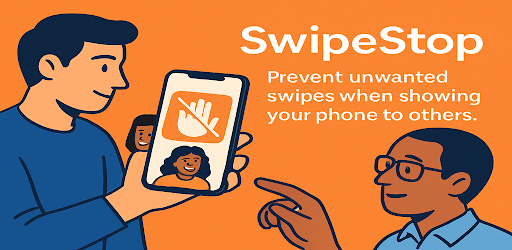
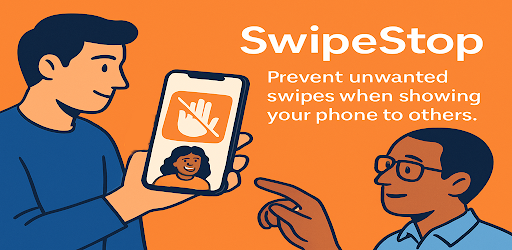
added App Stopper and Swipe Stop

Changed region(s): [[0.2188, 0.448, 0.3125, 0.616]]

diff --git a/swipe-stop.html b/swipe-stop.html
@@ -4,7 +4,7 @@
 <head>
     <meta charset="UTF-8">
     <meta name="viewport" content="width=device-width, initial-scale=1.0">
-    <title>Volume Buttons Extended | GiantTurtle Studio</title>
+    <title>Swipe Stop | GiantTurtle Studio</title>
     <link rel="stylesheet" href="https://cdnjs.cloudflare.com/ajax/libs/font-awesome/6.0.0/css/all.min.css">
     <link rel="stylesheet" href="styles.css">
 </head>
@@ -16,48 +16,66 @@
             style="border-top: none; display: inline-block; margin-bottom: 2rem;">&larr; Back</a>
 
         <header class="app-hero">
-            <h1 style="font-size: 4rem; margin-bottom: 1rem;">Volume Buttons Extended</h1>
-            <p style="font-size: 1.5rem; color: var(--primary); margin-bottom: 3rem;">Hardware Buttons, Infinite
-                Possibilities.</p>
-            <img src="assets/images/volume-promo2.png" alt="Volume Buttons Extended Hero">
+            <h1 style="font-size: 4rem; margin-bottom: 1rem;">Swipe Stop</h1>
+            <p style="font-size: 1.5rem; color: var(--primary); margin-bottom: 3rem;">SwipeStop - Screen Freeze.</p>
+            <img src="assets/images/swipe-stop-promo2.png" alt="Swipe Stop Hero">
         </header>
 
         <section class="full-description">
-            <h2>Control Your Phone Your Way</h2>
-            <p>Use volume buttons to control your phone, map them to various functions like showing notifications, have
-                physical back button etc.</p>
+            <h2>Protect your privacy with Swipe Stop</h2>
+            <p>The easiest way to freeze your screen when sharing your phone!
+
+Tired of people swiping through your personal photos or messages when you just want to show them one picture or video? SwipeStop gives you control. Lock your screen’s touch input and stop accidental (or intentional) swipes, scrolls, and taps — without interrupting the content.
+
+Perfect for:
+Showing photos or videos to friends without worries
+
+Handing your phone to kids without risk of app switching when they watch videos
+
+Keeping your screen safe from accidental touches when you watch a movie 
+
+Key Features:
+Freeze touch screen  with one tap
+
+Unfreeze (unlock) with or without biometrics authentication (you unfreeze it the same way you unlock your phone)
+
+Keeps screen ON while locked
+
+No Ads
+
+Lightweight and battery-friendly
+
+Enjoy peace of mind when you share your phone.
+SwipeStop - your screen, your rules!</p>
 
             <div class="featured-grid"
                 style="margin-top: 4rem; text-align: left; grid-template-columns: repeat(auto-fit, minmax(250px, 1fr));">
                 <div class="app-card" style="padding: 1.5rem;">
-                    <i class="fas fa-sliders-h"
-                        style="font-size: 2rem; color: var(--primary); margin-bottom: 1rem;"></i>
-                    <h3>Custom Mapping</h3>
-                    <p>Remap single, double, and long press actions on your volume rockers.</p>
+                    
+                    <h3>Screen Freeze</h3>
+                    <p>Tired of people swiping through your personal photos or messages.</p>
                 </div>
                 <div class="app-card" style="padding: 1.5rem;">
-                    <i class="fas fa-chevron-left"
-                        style="font-size: 2rem; color: var(--primary); margin-bottom: 1rem;"></i>
-                    <h3>Navigation Support</h3>
-                    <p>Use hardware buttons for back, home, or recent apps navigation.</p>
+                    
+                    <h3>Touch Lock</h3>
+                    <p>Handing your phone to kids without risk of app switching when they watch videos</p>
                 </div>
                 <div class="app-card" style="padding: 1.5rem;">
-                    <i class="fas fa-bell" style="font-size: 2rem; color: var(--primary); margin-bottom: 1rem;"></i>
-                    <h3>Quick Actions</h3>
-                    <p>Instantly trigger notifications, flashlight, or media controls.</p>
+                    <h3>Biometrics authentication</h3>
+                    <p>Unfreeze (unlock) with or without biometrics authentication (you unfreeze it the same way you unlock your phone).</p>
                 </div>
             </div>
 
-            <div
+            <!-- <div
                 style="margin-top: 4rem; padding: 2rem; background: rgba(255,165,0,0.1); border-left: 4px solid #ff813f; border-radius: 8px; text-align: left;">
                 <h3 style="color: #ff813f; margin-bottom: 1rem;">Accessibility Service Disclosure</h3>
                 <p style="font-size: 0.95rem; color: var(--text-main);">This app uses the AccessibilityService API. The
                     AccessibilityService permission is required to map volume buttons to various phone functions like
                     showing notifications, back button navigation etc.</p>
-            </div>
+            </div> -->
 
             <div class="app-links" style="justify-content: center; margin-top: 4rem;">
-                <a href="https://play.google.com/store/apps/details?id=com.giantturtle.advancedgesture"
+                <a href="https://play.google.com/store/apps/details?id=com.giantturtle.quickfreeze"
                     class="store-btn btn-playstore" style="max-width: 250px;"><i class="fab fa-google-play"></i>
                     Get it on Play Store</a>
                 <!-- <a href="https://apps.apple.com/app/volume-buttons-extended/id333333333" class="store-btn btn-appstore"
@@ -67,8 +85,10 @@
         </section>
 
         <section class="gallery">
-            <img src="assets/images/volume-promo3.png" alt="Volume Promo 1">
-            <img src="assets/images/volume-promo4.png" alt="Volume Promo 2">
+            <img src="assets/images/swipe-stop1.png" alt="Swipe Stop Promo 1">
+            <img src="assets/images/swipe-stop2.png" alt="Swipe Stop Promo 2">
+            <img src="assets/images/swipe-stop3.png" alt="Swipe Stop Promo 3">
+
         </section>
 
     </div>

diff --git a/app-stopper.html b/app-stopper.html
@@ -1,0 +1,89 @@
+<!DOCTYPE html>
+<html lang="en">
+
+<head>
+    <meta charset="UTF-8">
+    <meta name="viewport" content="width=device-width, initial-scale=1.0">
+    <title>App Stopper | GiantTurtle Studio</title>
+    <link rel="stylesheet" href="https://cdnjs.cloudflare.com/ajax/libs/font-awesome/6.0.0/css/all.min.css">
+    <link rel="stylesheet" href="styles.css">
+</head>
+
+<body>
+
+    <div class="container">
+        <a href="index.html" class="more-btn"
+            style="border-top: none; display: inline-block; margin-bottom: 2rem;">&larr; Back</a>
+
+        <header class="app-hero">
+            <h1 style="font-size: 4rem; margin-bottom: 1rem;">App Stopper</h1>
+            <p style="font-size: 1.5rem; color: var(--primary); margin-bottom: 3rem;">Stop Unwanted Apps from Running in Background</p>
+            <img src="assets/images/app-stopper-pomo.png" alt="App Stopper Hero">
+        </header>
+
+        <section class="full-description">
+            <h2>Control Your Phone Your Way</h2>
+            <p>When you use android phone from major manufacturers, you get bunch of unwanted software (bloatware) preinstalled that sometimes runs in background (sometimes it starts via predefined system event that manufacturer sets) and  you are unable to uninstall it. If you are good with tech and you force uninstall it via adb commands, it might break system functionality . 
+
+This app comes in handy to periodically close that apps without needing to uninstall them so you don't risk breaking system functionality. It can also help you to figure out which apps are really needed for your phone to work optimally for your use-case, by experimenting which processes you select to close.In order to achieve this, this app runs  in background and you will see when its automatic closing feature is active in notification area.
+
+It also comes with features to directly launch particular app screen (if the app supports it) . For example you can make shortcuts on your home screen to directly launch WiFi settings, open built in android file manager, open aliexpress app without splash screen etc..
+
+If you want to search the internet for specific app, it offers you to copy app package name and you can paste it in your search engine so you can learn more about that app and decide if you want to keep it..</p>
+
+            <div class="featured-grid"
+                style="margin-top: 4rem; text-align: left; grid-template-columns: repeat(auto-fit, minmax(250px, 1fr));">
+                <div class="app-card" style="padding: 1.5rem;">
+                    
+                    <h3>Create shortcuts</h3>
+                    <p>make shortcuts on your home screen to directly launch WiFi settings, open built in android file manager, open aliexpress app without splash screen etc..</p>
+                </div>
+                <div class="app-card" style="padding: 1.5rem;">
+                    
+                    <h3>App Management</h3>
+                    <p>Periodically close apps without needing to uninstall them so you don't risk breaking system functionality</p>
+                </div>
+                <div class="app-card" style="padding: 1.5rem;">
+                    
+                    <h3>Search Apps</h3>
+                    <p>Copy app package name and you can paste it in your search engine so you can learn more about that app and decide if you want to keep it..</p>
+                </div>
+            </div>
+
+            <!-- <div
+                style="margin-top: 4rem; padding: 2rem; background: rgba(255,165,0,0.1); border-left: 4px solid #ff813f; border-radius: 8px; text-align: left;">
+                <h3 style="color: #ff813f; margin-bottom: 1rem;">Accessibility Service Disclosure</h3>
+                <p style="font-size: 0.95rem; color: var(--text-main);">This app uses the AccessibilityService API. The
+                    AccessibilityService permission is required to map volume buttons to various phone functions like
+                    showing notifications, back button navigation etc.</p>
+            </div> -->
+
+            <div class="app-links" style="justify-content: center; margin-top: 4rem;">
+                <a href="https://play.google.com/store/apps/details?id=com.giantturtle.automaticappstopper"
+                    class="store-btn btn-playstore" style="max-width: 250px;"><i class="fab fa-google-play"></i>
+                    Get it on Play Store</a>
+                <!-- <a href="https://apps.apple.com/app/volume-buttons-extended/id333333333" class="store-btn btn-appstore"
+                    style="max-width: 250px;"><i class="fab fa-apple"></i>
+                    Download on App Store</a> -->
+            </div>
+        </section>
+
+        <section class="gallery">
+            <img src="assets/images/app-stopper-3.png" alt="Swipe Stop Promo 3">
+            <img src="assets/images/app-stopper-4.png" alt="Swipe Stop Promo 4">
+            <img src="assets/images/app-stopper-5.png" alt="Swipe Stop Promo 5">
+            <img src="assets/images/app-stopper-6.png" alt="Swipe Stop Promo 6">
+            <img src="assets/images/app-stopper-7.png" alt="Swipe Stop Promo 7">
+
+
+        </section>
+
+    </div>
+
+    <footer>
+        <p>&copy; 2026 GiantTurtle Studio</p>
+    </footer>
+
+</body>
+
+</html>

diff --git a/index.html b/index.html
@@ -134,6 +134,42 @@
                     </div>
                     <a href="volume-buttons-extended.html" class="more-btn">See More</a>
                 </div>
+
+                <!-- Swipe Stop -->
+                <div class="app-card">
+                    <img src="assets/images/swipe-stop-promo2.png" alt="Swipe Stop" class="app-image">
+                    <h3>Swipe Stop</h3>
+                    <p class="app-description">Protect your privacy with Swipe Stop.
+                        The easiest way to freeze your screen when sharing your phone!
+                    </p>
+                    <div class="app-links">
+
+                        <a href="https://play.google.com/store/apps/details?id=com.giantturtle.quickfreeze"
+                            class="store-btn btn-playstore"><i class="fab fa-google-play"></i> Play Store</a>
+                        <!-- <a href="https://apps.apple.com/app/volume-buttons-extended/id333333333"
+                            class="store-btn btn-appstore"><i class="fab fa-apple"></i> App Store</a> -->
+                    </div>
+                    <a href="swipe-stop.html" class="more-btn">See More</a>
+                </div>
+
+                <!-- App Stopper -->
+                <div class="app-card">
+                    <img src="assets/images/app-stopper-pomo.png" alt="App Stopper" class="app-image">
+                    <h3>App Stopper</h3>
+                    <p class="app-description">App Stopper is the easiest way to stop apps from running in the background and consuming resources, saving battery and improving performance. Perfect for quickly stopping misbehaving apps or just keeping your phone running smoothly.
+                    </p>
+                    <div class="app-links">
+
+                        <a href="https://play.google.com/store/apps/details?id=com.giantturtle.automaticappstopper"
+                            class="store-btn btn-playstore"><i class="fab fa-google-play"></i> Play Store</a>
+                        <!-- <a href="https://apps.apple.com/app/volume-buttons-extended/id333333333"
+                            class="store-btn btn-appstore"><i class="fab fa-apple"></i> App Store</a> -->
+                    </div>
+                    <a href="app-stopper.html" class="more-btn">See More</a>
+                </div>
+
+
+
             </div>
         </section>
 

diff --git a/macro-spotlight.html b/macro-spotlight.html
@@ -13,7 +13,7 @@
 
     <div class="container">
         <a href="index.html" class="more-btn"
-            style="border-top: none; display: inline-block; margin-bottom: 2rem;">&larr; Back to Studio</a>
+            style="border-top: none; display: inline-block; margin-bottom: 2rem;">&larr; Back</a>
 
         <header class="app-hero">
             <h1 style="font-size: 4rem; margin-bottom: 1rem;">Macro Spotlight</h1>

diff --git a/dextop.html b/dextop.html
@@ -13,7 +13,7 @@
 
     <div class="container">
         <a href="index.html" class="more-btn"
-            style="border-top: none; display: inline-block; margin-bottom: 2rem;">&larr; Back to Studio</a>
+            style="border-top: none; display: inline-block; margin-bottom: 2rem;">&larr; Back</a>
 
         <header class="app-hero">
             <h1 style="font-size: 4rem; margin-bottom: 1rem;">Dextop</h1>

diff --git a/blast-landing.html b/blast-landing.html
@@ -13,7 +13,7 @@
 
     <div class="container">
         <a href="index.html" class="more-btn"
-            style="border-top: none; display: inline-block; margin-bottom: 2rem;">&larr; Back to Studio</a>
+            style="border-top: none; display: inline-block; margin-bottom: 2rem;">&larr; Back</a>
 
         <header class="app-hero">
             <h1 style="font-size: 4rem; margin-bottom: 1rem;">Blast</h1>

diff --git a/styles.css b/styles.css
@@ -72,7 +72,7 @@ header {
 }
 
 .nav-logo img {
-    height: 22px;
+    height: 46px; /* increased by 30% (22px * 1.3 = 28.6px) */
     width: auto;
 }
 
